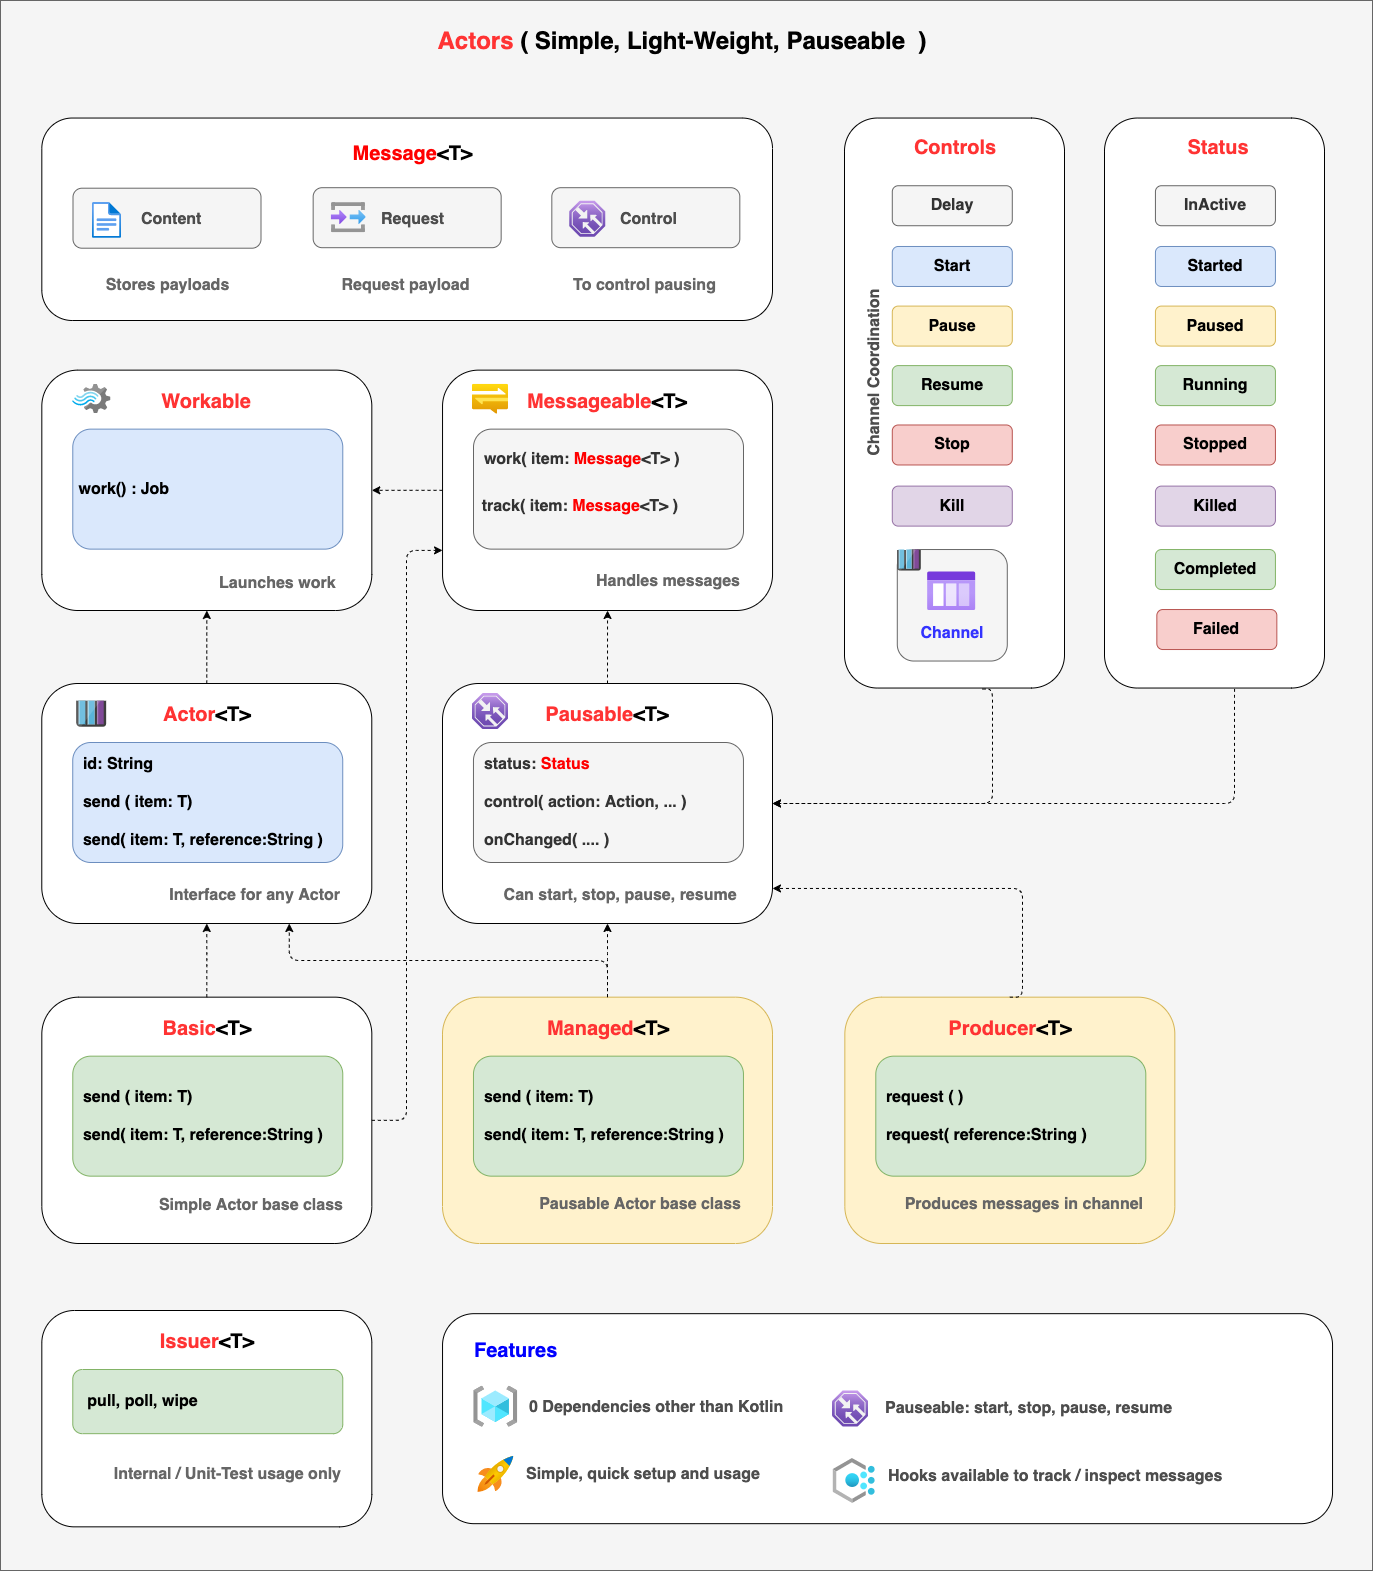
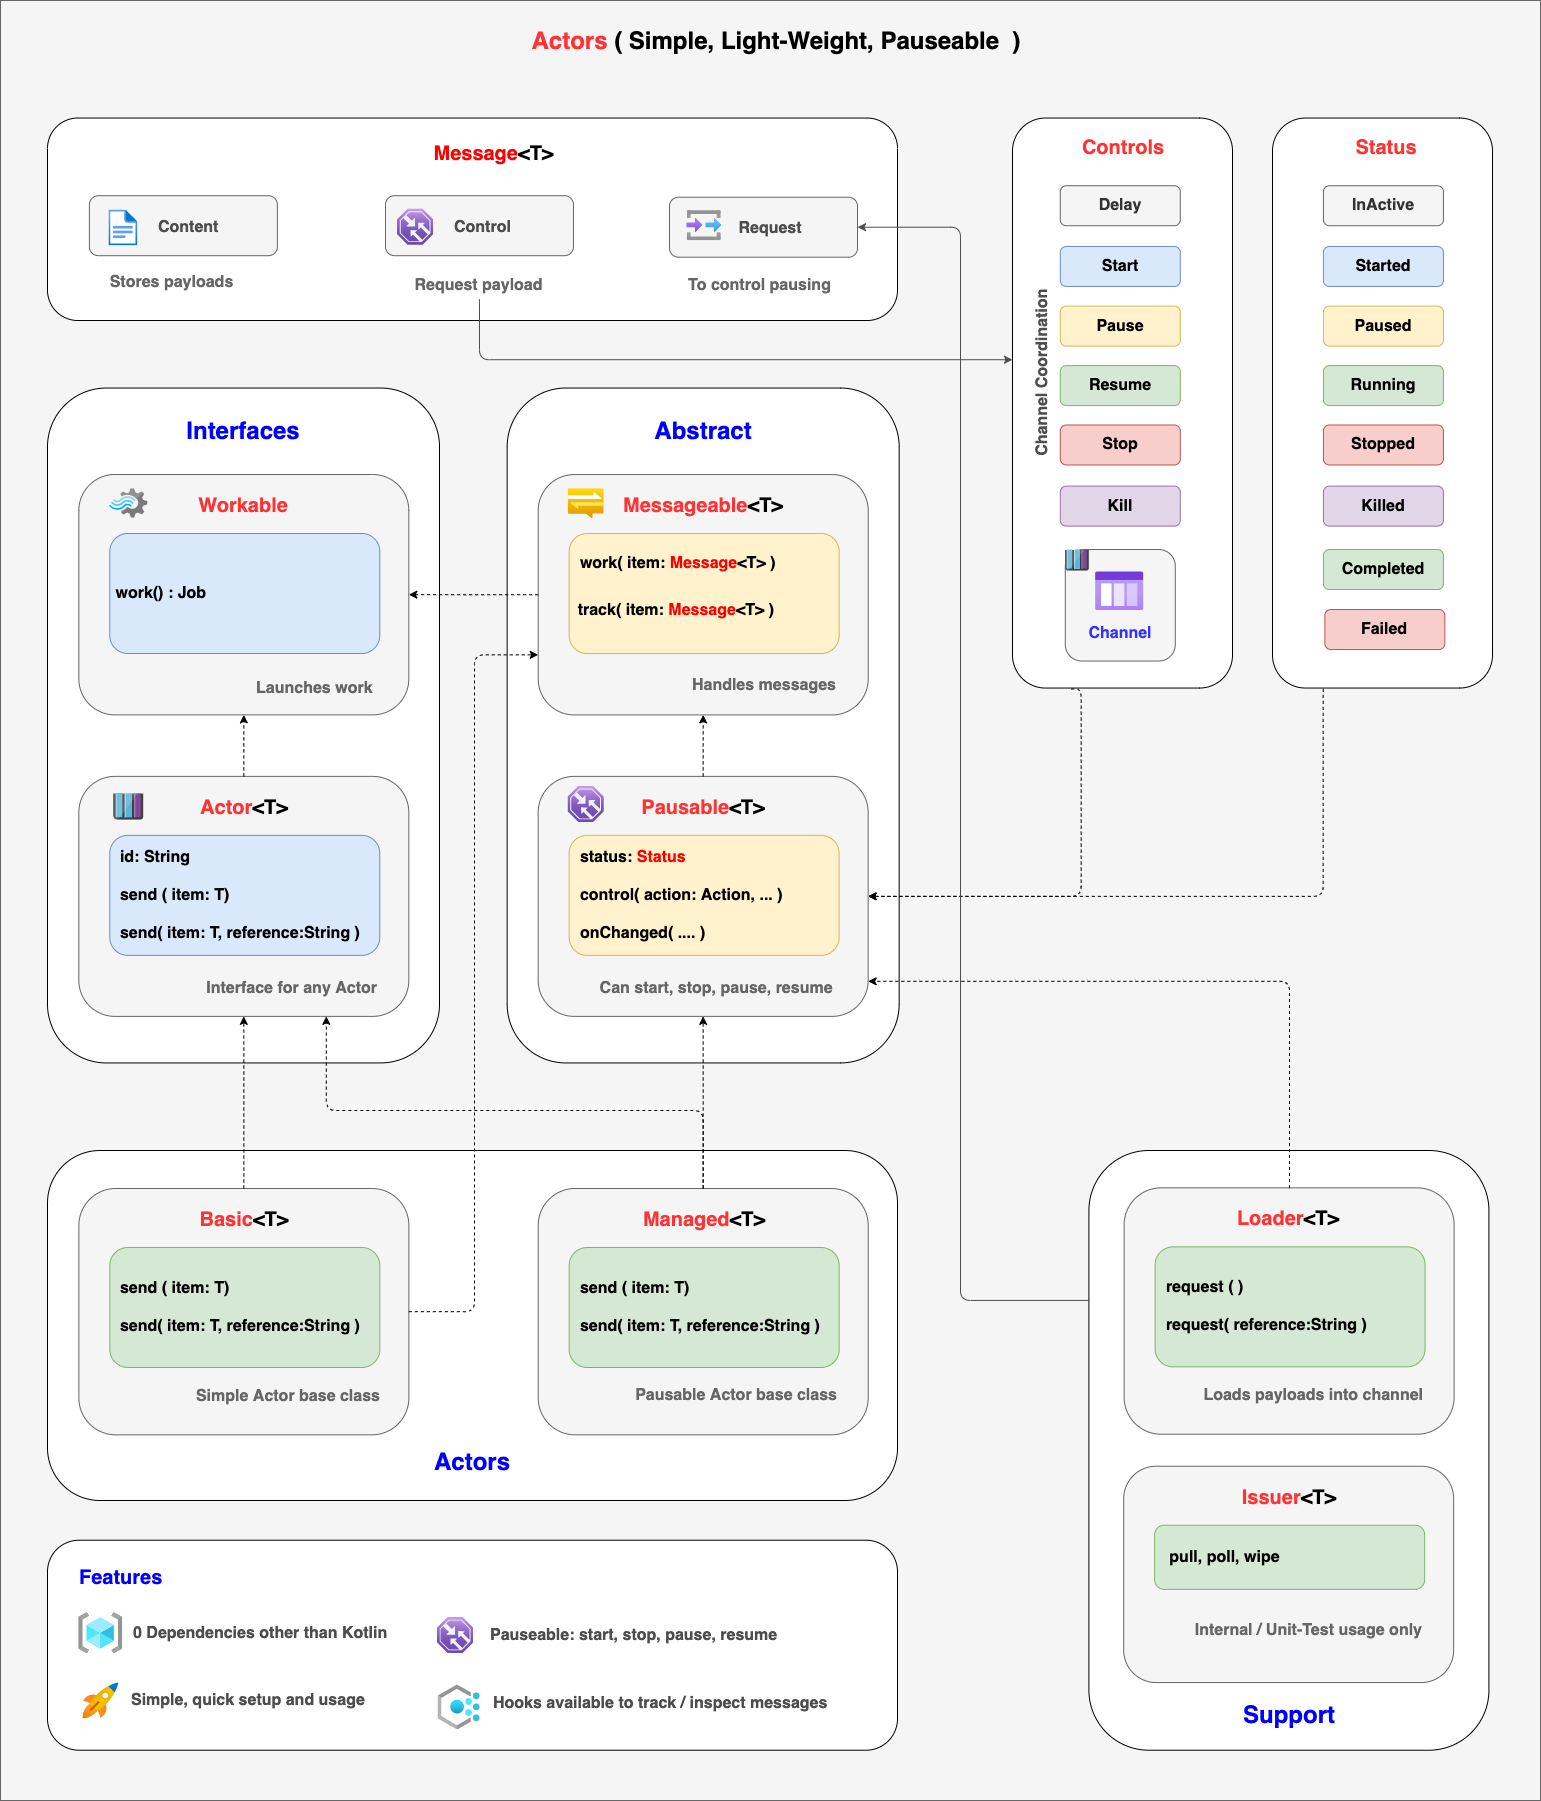
Actors: Rename Producer -> Loader

diff --git a/src/lib/kotlin/slatekit-actors/src/main/kotlin/slatekit/actors/Loader.kt b/src/lib/kotlin/slatekit-actors/src/main/kotlin/slatekit/actors/Loader.kt
@@ -5,14 +5,13 @@ import kotlinx.coroutines.channels.Channel
 /**
  * Base class for an Actor that can be started, stopped, paused, and resumed
  */
-abstract class Producer<T>(ctx: Context, channel: Channel<Message<T>>) : Pausable<T>(ctx, channel) {
+abstract class Loader<T>(ctx: Context, channel: Channel<Message<T>>) : Pausable<T>(ctx, channel) {
 
 
     /**
-     * Request to produce a payload internally ( say from a queue ) and process it
-     * @param msg  : Full message
+     * Request to load a payload internally into the channel
      */
-    suspend fun request() {
+    suspend fun load() {
         allow {
             channel.send(Request(nextId(), reference = Message.NONE))
         }
@@ -20,11 +19,10 @@ abstract class Producer<T>(ctx: Context, channel: Channel<Message<T>>) : Pausabl
 
 
     /**
-     * Sends a request message associated with the supplied target to produce a payload
-     * This represents a request to get payload internally ( say from a queue ) and process it
-     * @param reference  : Full message
+     * Request to load a payload internally into the channel, pay load is associated with the reference
+     * @param reference  : Value to associate with the payload
      */
-    suspend fun request(reference: String) {
+    suspend fun load(reference: String) {
         allow {
             channel.send(Request(nextId(), reference = reference))
         }

diff --git a/src/lib/kotlin/slatekit-jobs/src/main/kotlin/slatekit/jobs/Job.kt b/src/lib/kotlin/slatekit-jobs/src/main/kotlin/slatekit/jobs/Job.kt
@@ -57,7 +57,7 @@ import slatekit.results.Try
  *
  */
 class Job(val jctx: Context)
-    : Producer<Task>(slatekit.actors.Context(jctx.id.name, jctx.scope), jctx.channel), Check, Ops {
+    : Loader<Task>(slatekit.actors.Context(jctx.id.name, jctx.scope), jctx.channel), Check, Ops {
 
     val workers = Workers(jctx)
     private val events = jctx.notifier.jobEvents

diff --git a/src/lib/kotlin/slatekit-integration/src/main/kotlin/slatekit/integration/apis/JobsApi.kt b/src/lib/kotlin/slatekit-integration/src/main/kotlin/slatekit/integration/apis/JobsApi.kt
@@ -24,7 +24,6 @@ import slatekit.common.crypto.Encryptor
 import slatekit.common.log.Logger
 import slatekit.integration.common.AppEntContext
 import slatekit.jobs.Jobs
-import slatekit.jobs.support.Command
 import slatekit.results.Outcome
 import slatekit.results.builders.Outcomes
 

diff --git a/src/lib/kotlin/slatekit-jobs/src/main/kotlin/slatekit/jobs/Jobs.kt b/src/lib/kotlin/slatekit-jobs/src/main/kotlin/slatekit/jobs/Jobs.kt
@@ -24,7 +24,7 @@ class Jobs(val queues: List<Queue>,
     /**
      * Ids of all the jobs
      */
-    val ids = jobs.map { it.id }
+    val ids = jobs.map { it.jctx.id }
 
     /**
      * Number of jobs

diff --git a/src/lib/kotlin/slatekit-jobs/src/main/kotlin/slatekit/jobs/support/Work.kt b/src/lib/kotlin/slatekit-jobs/src/main/kotlin/slatekit/jobs/support/Work.kt
@@ -208,7 +208,7 @@ class Work(val job: Job) {
 
 
     private suspend fun request(id:Identity) {
-        job.request(id.instance)
+        job.load(id.instance)
     }
 
 
